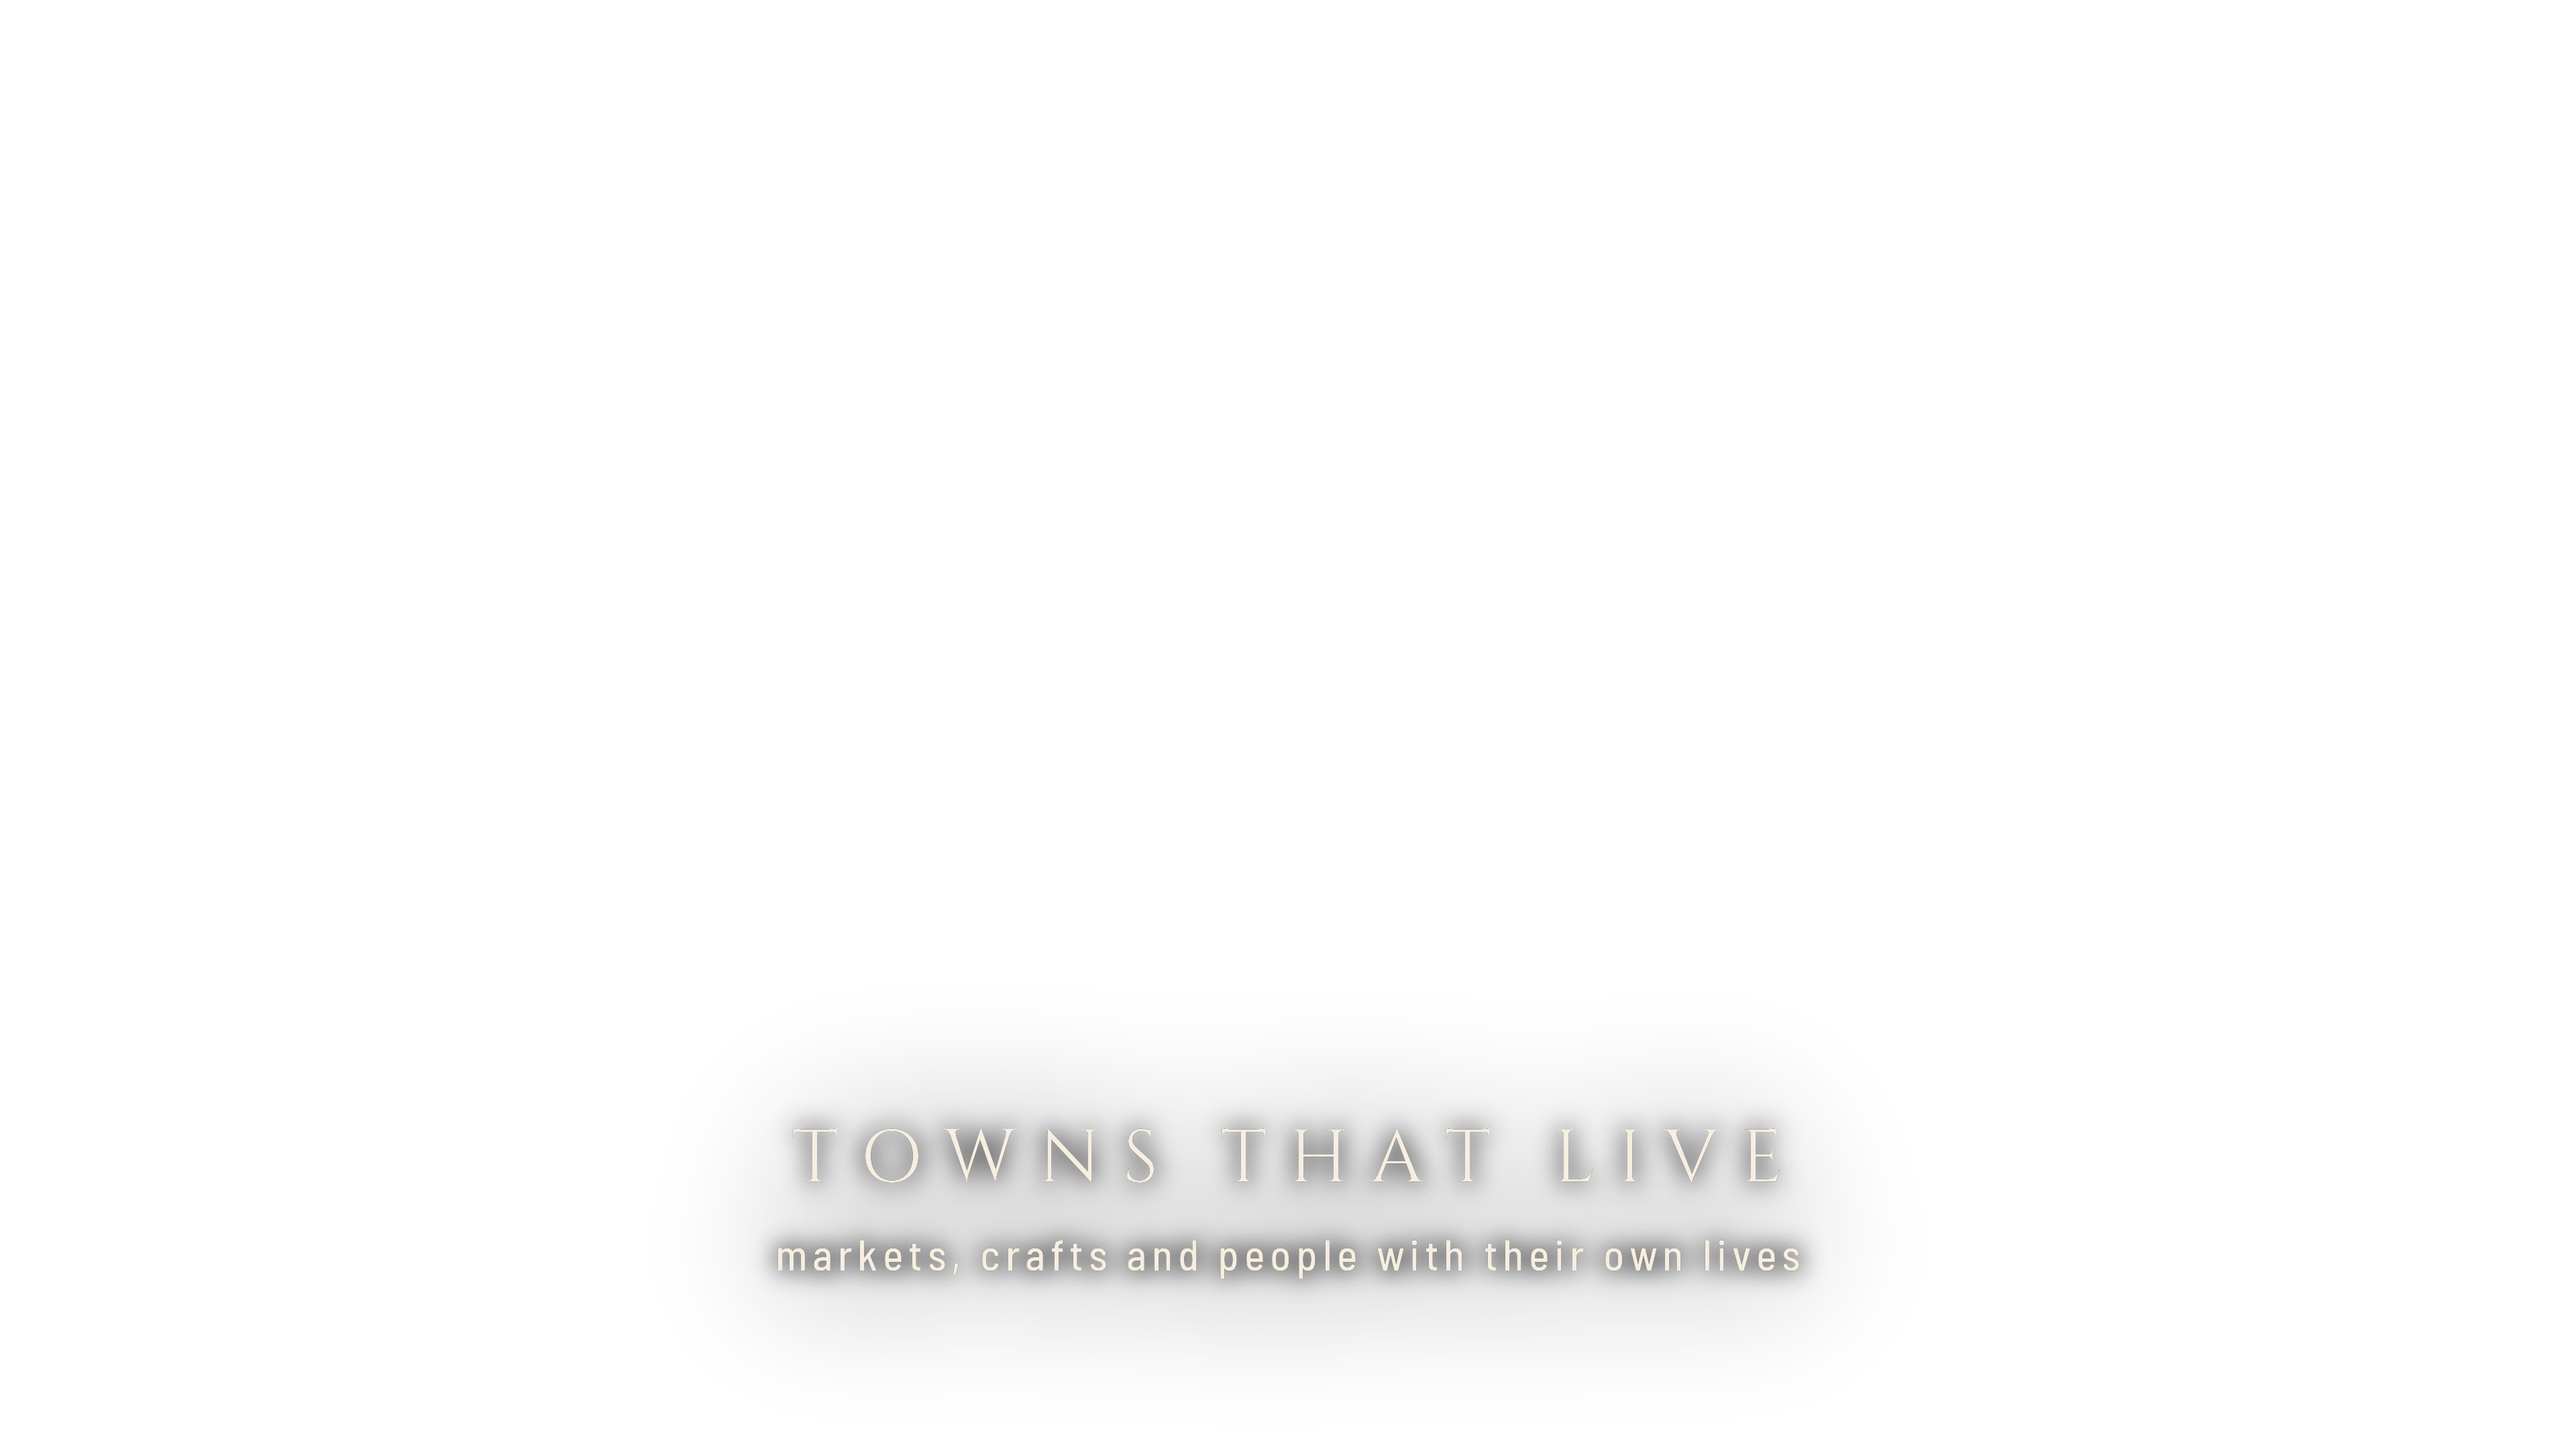
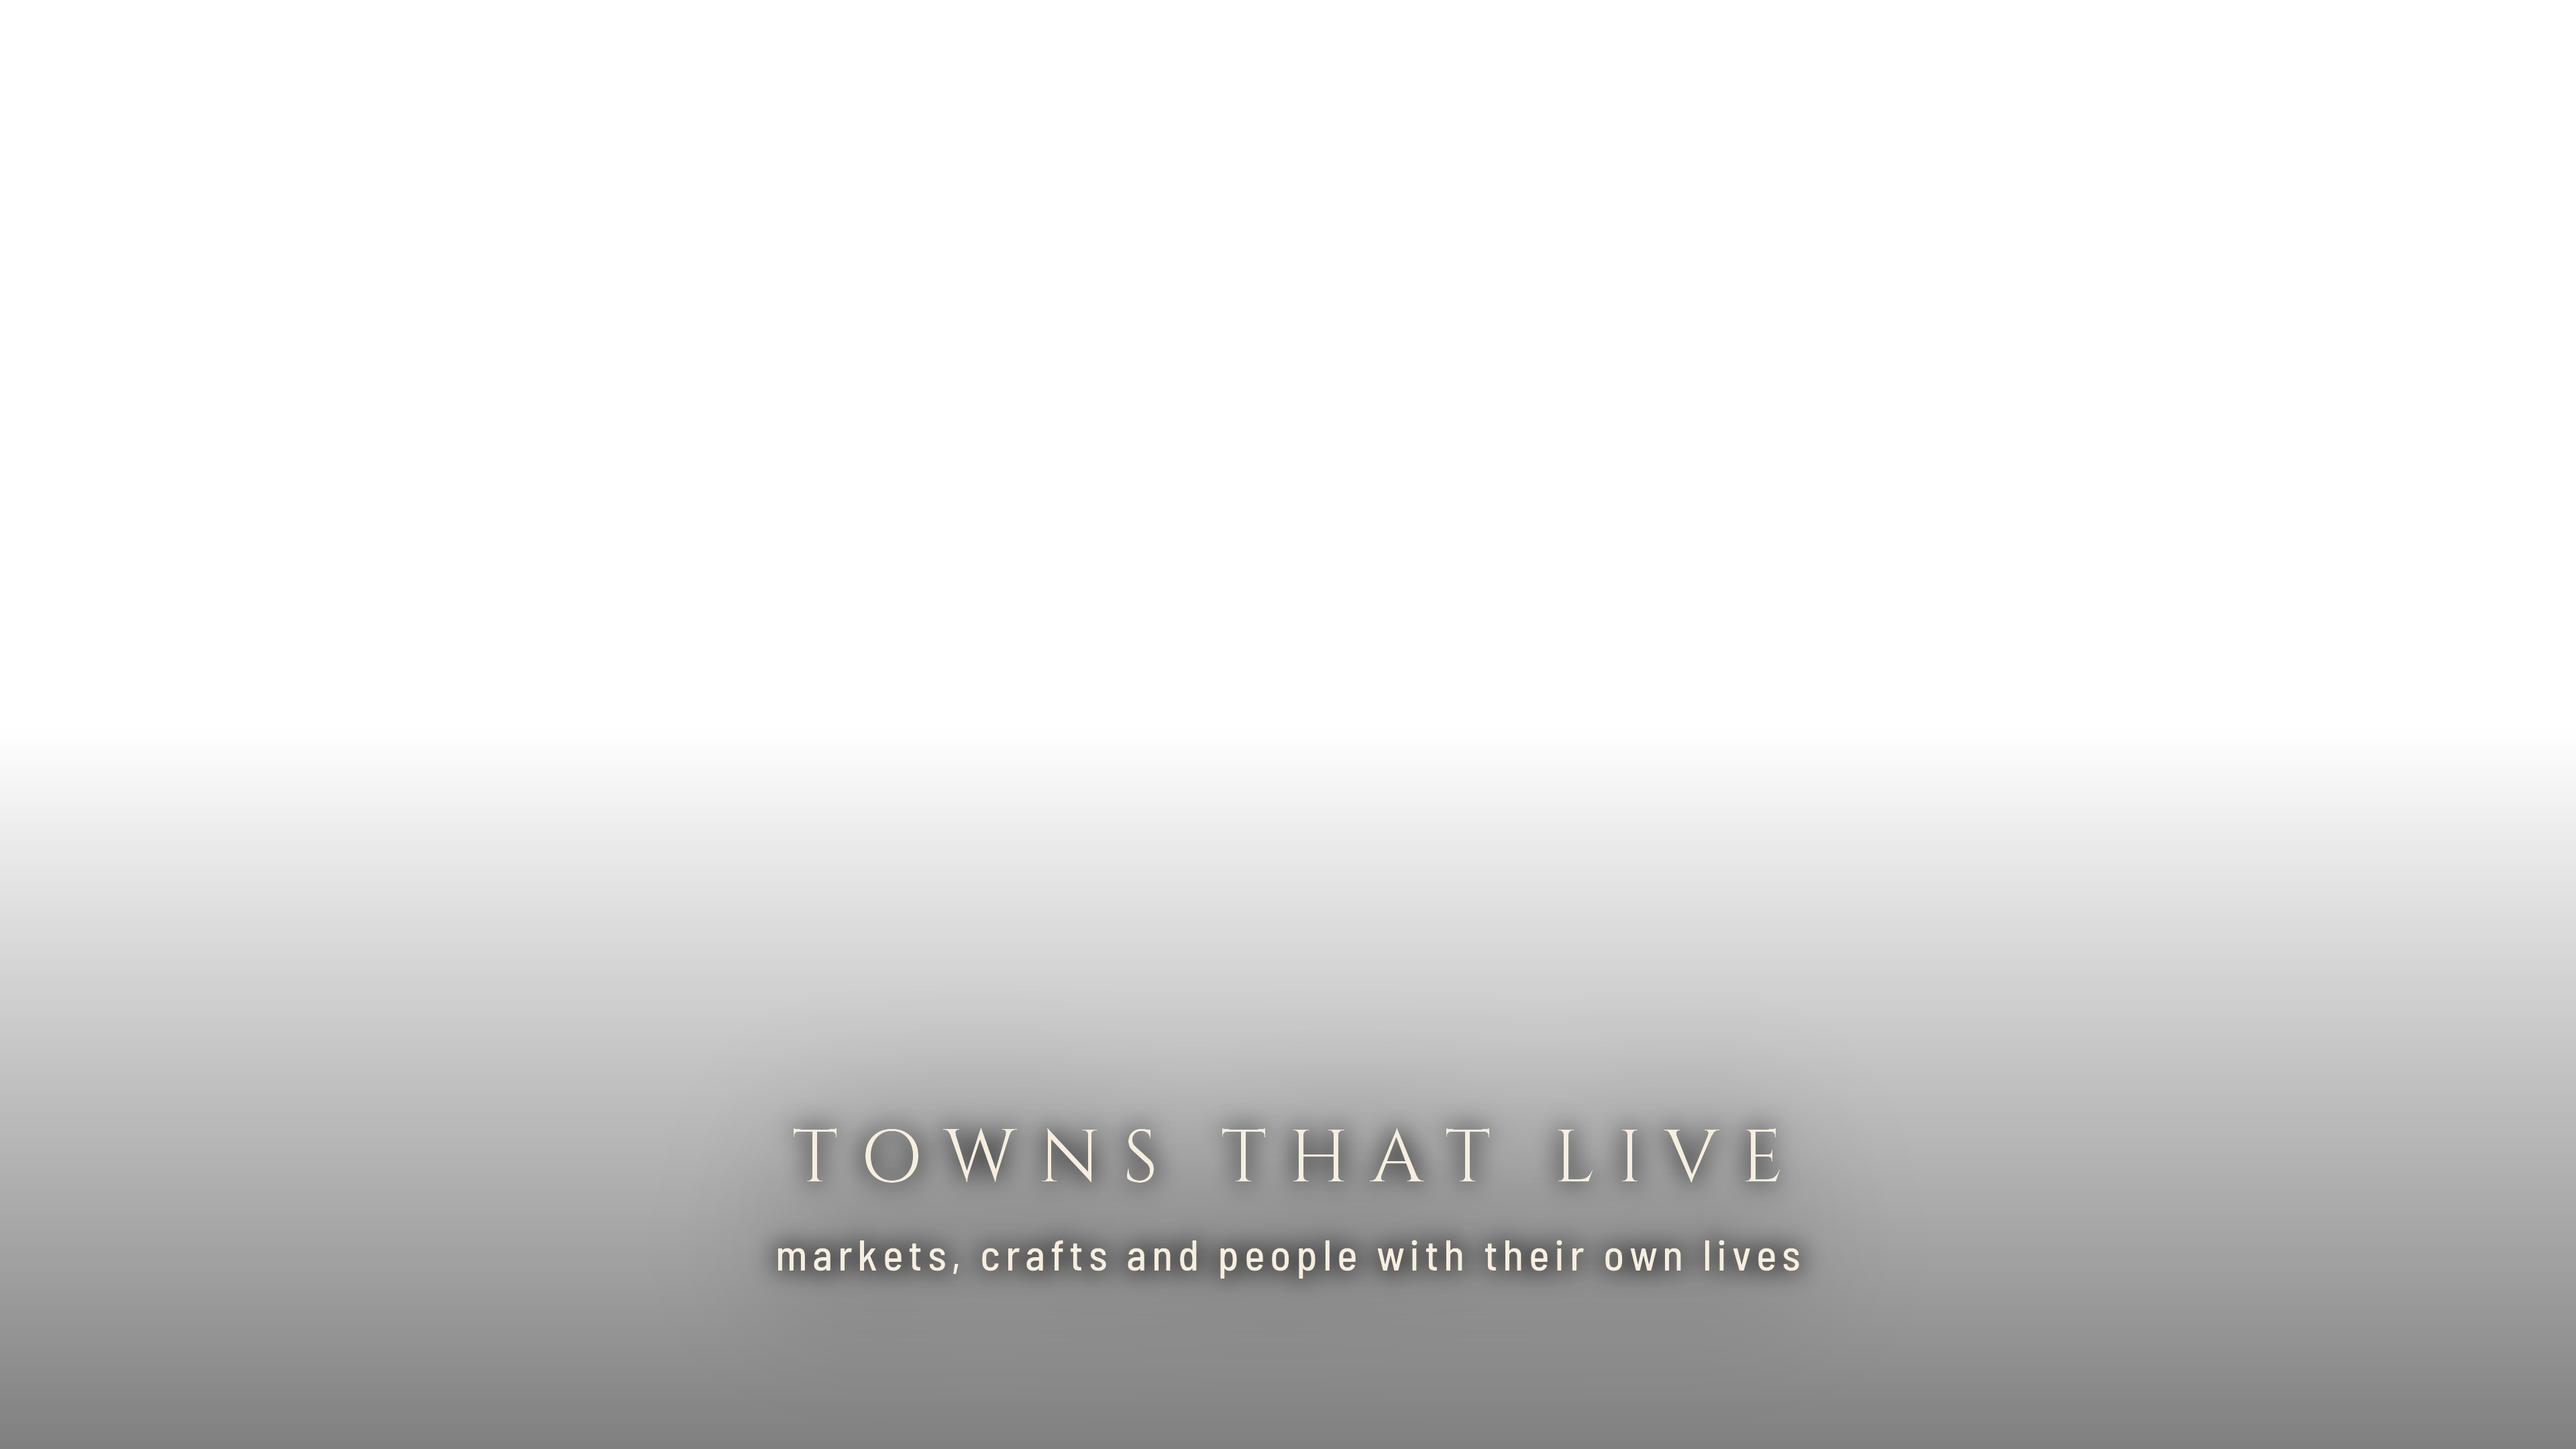
Trailer cut v2: shorter rain cold open (music and every cut shift up together, still on the beats), rowboat out (modern blocks on its far shore), lake and cog shots lengthened over it, warmer sunrise grade, a dark band under the lower-third titles
Claude-Session: https://claude.ai/code/session_019Kfrb74AqCNHN1jYaLzdCV

diff --git a/tools/trailer_titles.py b/tools/trailer_titles.py
@@ -63,6 +63,13 @@ def card(lines):
     dark = Image.new("RGBA", (W, H), (0, 0, 0, 255))
     dark.putalpha(shadow.point(lambda v: int(v * 0.75)))
     img = Image.alpha_composite(img, dark)
+    # Lines in the lower third sit on a soft dark band rising from the bottom edge, so they
+    # read over fog and grey sky too.
+    if min(l[4] for l in lines) > 0.7:
+        band = Image.linear_gradient("L").resize((W, H)).point(lambda v: int(max(0, v - 128) * 2 * 0.5))
+        scrim = Image.new("RGBA", (W, H), (0, 0, 0, 255))
+        scrim.putalpha(band)
+        img = Image.alpha_composite(scrim, img)
     img.paste((246, 238, 224, 255), (0, 0), text)
     return img
 
